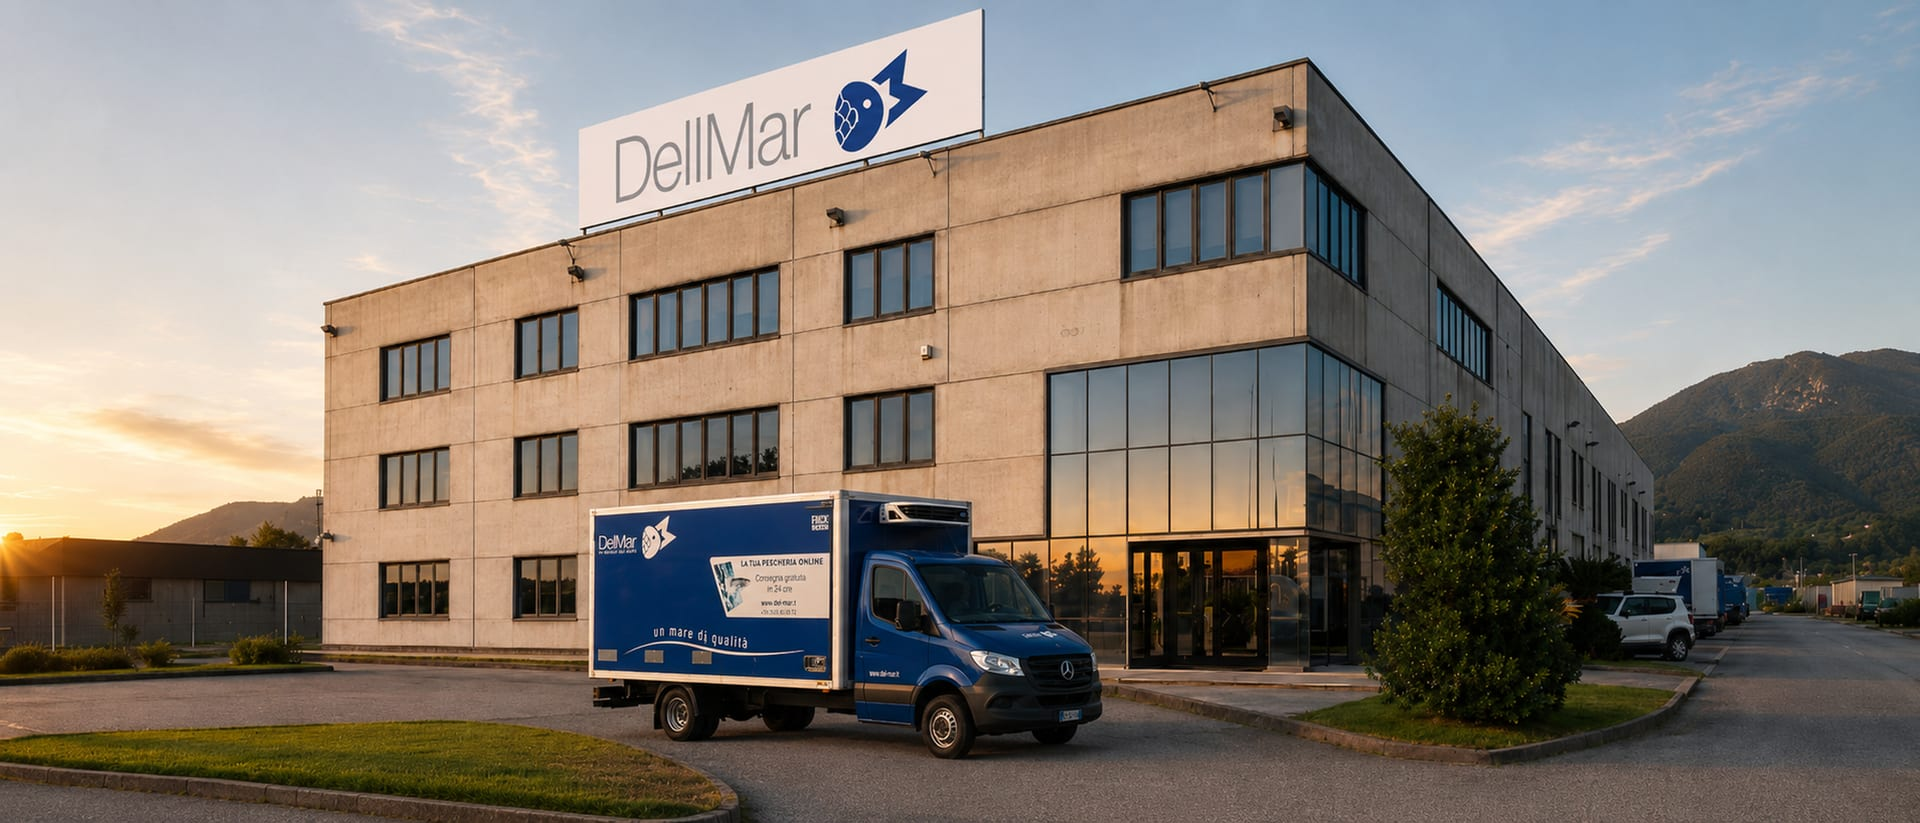
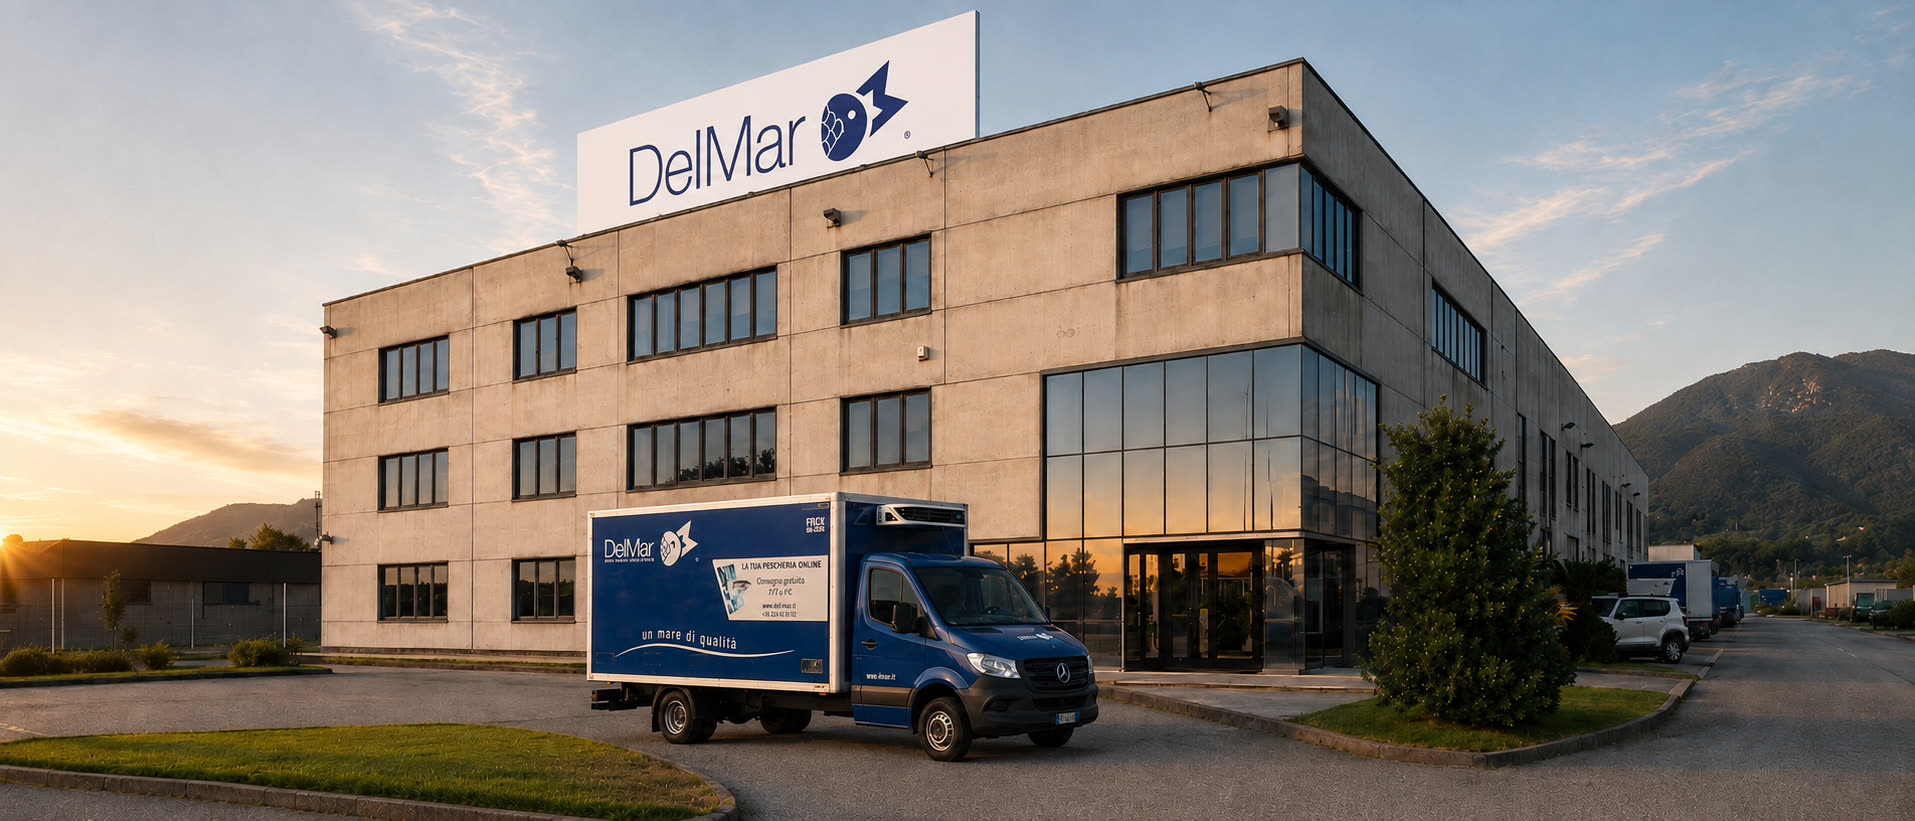
Foto vere al posto delle immagini di repertorio, in quattro punti
Arrivano le fotografie dello stabilimento e del prodotto. Sostituiscono
immagini generiche in cui non si riconosceva niente di DelMar; queste
hanno tutte il marchio in campo — sulla cassa, sui cartoni, sull'insegna
e sulla livrea dei furgoni — che e' esattamente cio' che le sezioni
stanno affermando.

Tutte ritagliate a mano e non lasciate al ritaglio automatico. I
riquadri delle strisce prodotto sono 4/3 e le foto arrivavano 3:2:
il browser avrebbe tagliato comunque, la differenza e' decidere dove.
Su ognuna ho verificato cosa resta DOPO l'effetto di parallasse, che
ingrandisce dell'8% e mangia un altro 3,7% per lato: e' li' che si
perdono i dettagli che valeva la pena tenere.

- Prima striscia prodotti: alici in cassa DelMar. Il logo sulla cassa
  cade al 75% della larghezza e al 79-86% dell'altezza, quindi resta
  dentro anche con lo zoom. File NUOVO e non sostituzione, perche'
  alici.jpg e' usata anche dal B2C: sovrascriverla avrebbe cambiato una
  pagina che nessuno aveva chiesto di toccare.
- Terza striscia: corsia del magazzino refrigerato. Ritaglio centrato,
  la simmetria della corsia e' l'inquadratura. Era l'ultima foto rimasta
  segnata come "da sostituire" dall'inizio del lavoro.
- Azienda, facciata diurna: stesso rapporto della precedente (2,33
  contro 2,33), sostituzione diretta senza ritaglio. Il riquadro del B2C
  e' dichiarato 21/9 = 2,333 e combacia.
- Azienda, facciata notturna: portata da 2048 a 1920px, la stessa
[…]

diff --git a/index.html b/index.html
@@ -14,14 +14,14 @@
     <meta property="og:url" content="https://del-mar.it/" />
     <meta property="og:title" content="DelMar — Fornitore Ittico Premium" />
     <meta property="og:description" content="Pesce fresco selezionato ogni mattina, crostacei e surgelati premium. Filiera certificata e consegna in tutta Italia entro 24 ore." />
-    <meta property="og:image" content="https://del-mar.it/assets/facade-day.jpg" />
+    <meta property="og:image" content="https://del-mar.it/assets/facade-day.jpg?v=2" />
     <meta property="og:locale" content="it_IT" />
     <meta property="og:site_name" content="DelMar" />
     <!-- Twitter Card -->
     <meta name="twitter:card" content="summary_large_image" />
     <meta name="twitter:title" content="DelMar — Fornitore Ittico Premium" />
     <meta name="twitter:description" content="Pesce fresco selezionato ogni mattina, crostacei e surgelati premium. Consegna in tutta Italia entro 24 ore." />
-    <meta name="twitter:image" content="https://del-mar.it/assets/facade-day.jpg" />
+    <meta name="twitter:image" content="https://del-mar.it/assets/facade-day.jpg?v=2" />
     <!-- JSON-LD LocalBusiness -->
     <script type="application/ld+json">
     {
@@ -31,7 +31,7 @@
       "description": "Fornitore ittico premium per l'alta ristorazione. Pesce fresco, crostacei, molluschi e surgelati con consegna in tutta Italia entro 24 ore.",
       "url": "https://del-mar.it",
       "logo": "https://del-mar.it/assets/logo.png",
-      "image": "https://del-mar.it/assets/facade-day.jpg",
+      "image": "https://del-mar.it/assets/facade-day.jpg?v=2",
       "telephone": "+390585834572",
       "email": "info@del-mar.it",
       "vatID": "IT01081190454",
@@ -165,7 +165,7 @@
     <!-- ════════════════════ §2 PRODOTTI ══════════ -->
     <section class="section" id="prodotti">
       <div class="prod-strip">
-        <div class="prod-img par-img"><img src="assets/alici.jpg" alt="Alici fresche" loading="lazy" /></div>
+        <div class="prod-img par-img"><img src="assets/alici-cassa.jpg" alt="Alici appena selezionate in una cassa DelMar" loading="lazy" /></div>
         <div class="prod-text">
           <h3 class="big-title">Dal mare di casa<br />ai mari del mondo.</h3>
           <p class="body-text">
@@ -188,7 +188,7 @@
         </div>
       </div>
       <div class="prod-strip">
-        <div class="prod-img par-img"><img src="assets/shelves.jpg" alt="Scaffali" loading="lazy" /></div>
+        <div class="prod-img par-img"><img src="assets/shelves.jpg?v=2" alt="Corsia del magazzino refrigerato DelMar, pallet e cartoni marchiati su entrambi i lati" loading="lazy" /></div>
         <div class="prod-text">
           <h3 class="big-title">
             La scorta<br />la teniamo noi.
@@ -411,7 +411,7 @@
     <section class="section sec-soft" id="azienda">
       <!-- Facciata — panoramica full width, proporzione naturale -->
       <div class="azienda-facade par-img">
-        <img src="assets/facade-day.jpg" alt="Sede DelMar" loading="eager" />
+        <img src="assets/facade-day.jpg?v=2" alt="La sede DelMar a Massa al tramonto, con un furgone refrigerato della flotta" loading="eager" />
         <div class="azienda-facade-caption">
           <p class="label">Sede · Via Dorsale 13, Massa (MS)</p>
         </div>
@@ -439,7 +439,7 @@
           </div>
           <div class="azienda-side-imgs reveal-img">
             <img src="assets/meeting-1.jpg" alt="Team in riunione" loading="lazy" />
-            <img src="assets/facade-night.jpg" alt="Sede notturna" loading="lazy" />
+            <img src="assets/facade-night.jpg?v=2" alt="La sede DelMar all'imbrunire, un furgone in partenza e le scie dei fari" loading="lazy" />
           </div>
         </div>
       </div>

diff --git a/mercatodelmare.html b/mercatodelmare.html
@@ -26,7 +26,7 @@
       "description": "Pescheria al dettaglio di DelMar: pesce fresco, crostacei vivi e box pronti da cucinare, comprati direttamente alla fonte.",
       "url": "https://del-mar.it/mercatodelmare.html",
       "logo": "https://del-mar.it/assets/logo.png",
-      "image": "https://del-mar.it/assets/facade-day.jpg",
+      "image": "https://del-mar.it/assets/facade-day.jpg?v=2",
       "telephone": "+390585834572",
       "email": "info@del-mar.it",
       "address": {
@@ -333,7 +333,7 @@
         </p>
       </div>
       <div class="mdm-facade reveal-el">
-        <img src="assets/facade-day.jpg" alt="Facciata del negozio DelMar a Massa" loading="lazy" />
+        <img src="assets/facade-day.jpg?v=2" alt="Facciata del negozio DelMar a Massa" loading="lazy" />
       </div>
       <div class="visit-grid">
         <div class="visit-card reveal-el">
